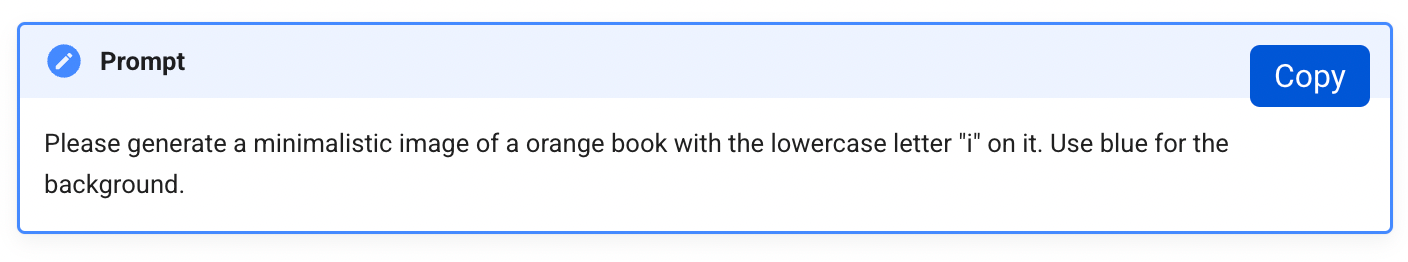
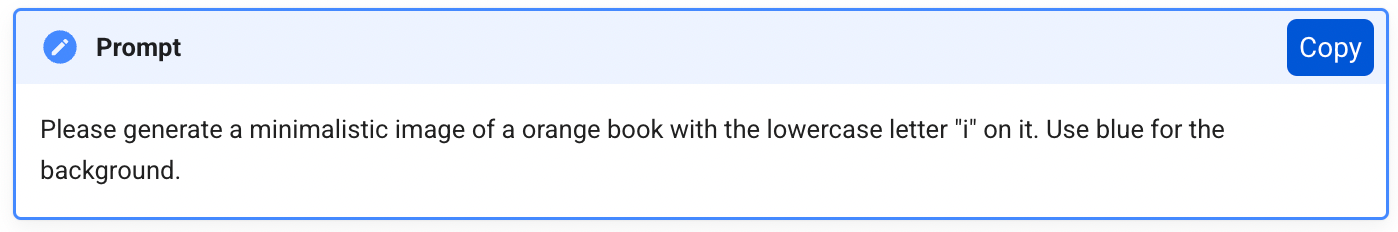
updating content

Changed region(s): [[0.0, 0.0302, 1.0, 0.9655]]

diff --git a/docs/tutorial/admonition-prompt-copy.md b/docs/tutorial/admonition-prompt-copy.md
@@ -68,16 +68,16 @@ document.addEventListener("DOMContentLoaded", function () {
 }
 
 .admonition.prompt .copy-button {
-    position: absolute;
-    top: 10px;
-    right: 10px;
-    background-color: #0056d6;
-    color: white;
-    border: none;
-    border-radius: 5px;
-    padding: 0.3rem 0.6rem;
-    cursor: pointer;
-    font-size: 0.8rem;
+  position: absolute;
+  top: 4px;
+  right: 6px;
+  background-color: #0056d6;
+  color: white;
+  border: none;
+  border-radius: 5px;
+  padding: 0.3rem 0.3rem;
+  cursor: pointer;
+  font-size: 0.7rem;
 }
 
 .admonition.prompt .copy-button:hover {

diff --git a/docs/sims/index.md b/docs/sims/index.md
@@ -1,12 +1,15 @@
 # List of MicroSims for This Intelligent Textbook
 
-## Word Cloud
-
-[Word Cloud](./word-cloud/index.md)
+Here is a list of MicroSims that are used
+in our intelligent textbooks.
 
 ## Learning Graph
 
 [Learning Graph](./learning-graph/index.md)
+
+## Word Cloud
+
+[Word Cloud](./word-cloud/index.md)
 
 ## Sine Wave
 